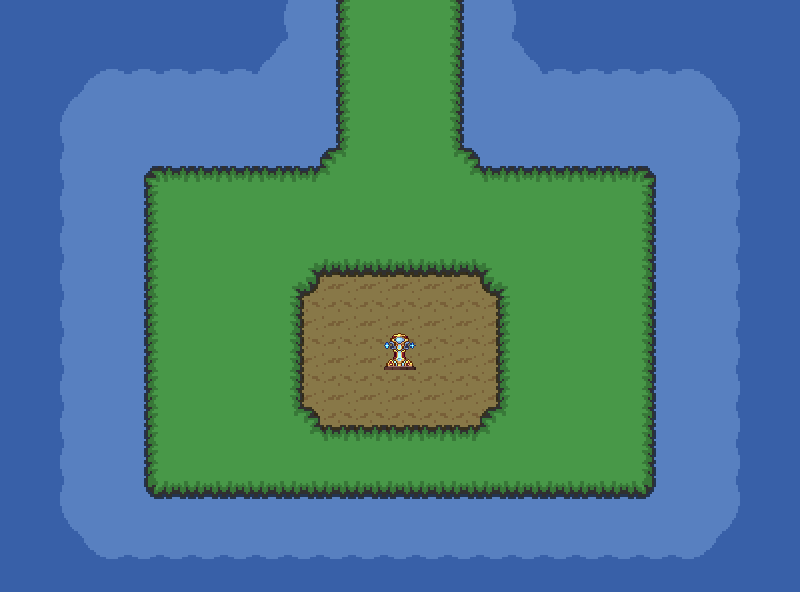
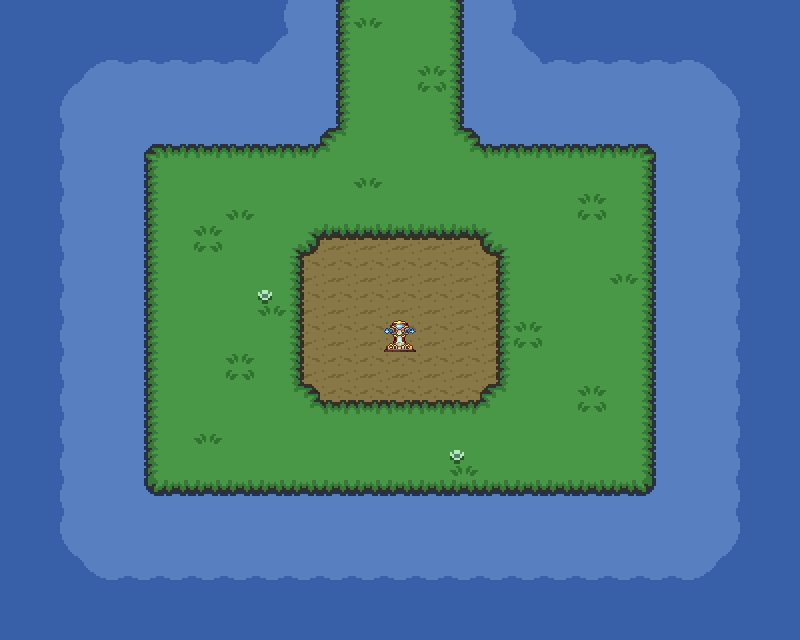
Funcion para obtener datos de la partida, funcion para generar el mapa, actualizo mapas 1-1 y 1-2 y actualizo OFW (6.3.3 -> 6.3.4)

diff --git a/app/module/api/api.php b/app/module/api/api.php
@@ -175,6 +175,71 @@ class api extends OModule {
 		$this->getTemplate()->add('status', $status);
 		$this->getTemplate()->add('id', $id_scenario);
 	}
+	
+	/**
+	 * Función para obtener los datos de una partida
+	 *
+	 * @url /get-play-data
+	 * @filter gameFilter
+	 * @param ORequest $req Request object with method, headers, parameters and filters used
+	 * @return void
+	 */
+	public function getPlayData(ORequest $req): void {
+		$status  = 'ok';
+		$id_game = $req->getParamInt('id');
+		$id_world = 'null';
+		$world_name = '';
+		$world_description = '';
+		$id_scenario = 'null';
+		$scenario_name = '';
+		$map_url = '';
+		$scenario_objects = [];
+		$characters = [];
+
+		if (is_null($id_game)) {
+			$status = 'error';
+		}
+
+		if ($status=='ok') {
+			$game = new Game();
+			if ($game->find(['id' => $id_game])) {
+				$scenario = $game->getScenario();
+				$world = $scenario->getWorld();
+
+				$id_world = $world->get('id');
+				$world_name = $world->get('name');
+				$world_description = $world->get('description');
+				$id_scenario = $scenario->get('id');
+				$scenario_name = $scenario->get('name');
+				$map_url = $scenario->getMapUrl();
+
+				$data = $scenario->getData();
+				foreach ($data as $scenario_data) {
+					$scenario_object = $scenario_data->getScenarioObject();
+					if (!is_null($scenario_object) && $scenario_object->get('crossable')===false) {
+						array_push($scenario_objects, $scenario_object);
+					}
+					$character = $scenario_data->getCharacter();
+					if (!is_null($character)) {
+						array_push($characters, $character);
+					}
+				}
+			}
+			else {
+				$status = 'error';
+			}
+		}
+
+		$this->getTemplate()->add('status',            $status);
+		$this->getTemplate()->add('id_world',          $id_world);
+		$this->getTemplate()->add('world_name',        $world_name);
+		$this->getTemplate()->add('world_description', $world_description);
+		$this->getTemplate()->add('id_scenario',       $id_scenario);
+		$this->getTemplate()->add('scenario_name',     $scenario_name);
+		$this->getTemplate()->add('map_url',           $map_url);
+		$this->getTemplate()->addComponent('scenario_objects', 'admin/scenario_objects', ['list' => $scenario_objects, 'extra' => 'nourlencode']);
+		$this->getTemplate()->addComponent('characters',       'admin/characters',       ['list' => $characters,       'extra' => 'nourlencode']);
+	}
 
 	/**
 	 * Función para guardar un escenario editado

diff --git a/app/task/map.php b/app/task/map.php
@@ -3,6 +3,10 @@ class mapTask extends OTask {
 	public function __toString() {
 		return "map: Nueva tarea map";
 	}
+	
+	private $tile_size = 32;
+	private $rows = 20;
+	private $cols = 25;
 
 	private function getResource(string $file, string $ext) {
 		switch ($ext) {
@@ -31,6 +35,10 @@ class mapTask extends OTask {
 		}
 
 		$id_scenario = intval($options[0]);
+		$silent = false;
+		if (count($options)==2 && $options[1]=='true') {
+			$silent = true;
+		}
 
 		$scenario = new Scenario();
 		if (!$scenario->find(['id' => $id_scenario])) {
@@ -42,11 +50,8 @@ class mapTask extends OTask {
 		if (file_exists($map_file)) {
 			unlink($map_file);
 		}
-		$outputImage = imagecreatetruecolor(800, 592);
+		$outputImage = imagecreatetruecolor(($this->cols * $this->tile_size), ($this->rows * $this->tile_size));
 		$data = $scenario->getData();
-
-		$new_width = 32;
-		$new_height = 37;
 
 		foreach ($data as $scenario_data) {
 			$this->getLog()->debug("X: ".$scenario_data->get('x')." - Y: ".$scenario_data->get('y'));
@@ -55,7 +60,7 @@ class mapTask extends OTask {
 			list($width, $height) = getimagesize($bg_file);
 			$bg = $this->getResource($bg_file, $bg_file_ext);
 
-			imagecopyresized($outputImage, $bg, ($scenario_data->get('y') * $new_width), ($scenario_data->get('x') * $new_height), 0, 0, $new_width, $new_height, $width, $height);
+			imagecopyresized($outputImage, $bg, ($scenario_data->get('y') * $this->tile_size), ($scenario_data->get('x') * $this->tile_size), 0, 0, $this->tile_size, $this->tile_size, $width, $height);
 
 			if (!is_null($scenario_data->getScenarioObject())) {
 				$so_file = $scenario_data->getScenarioObject()->getAsset()->getFile();
@@ -63,12 +68,14 @@ class mapTask extends OTask {
 				list($width, $height) = getimagesize($so_file);
 				$so = $this->getResource($so_file, $so_file_ext);
 
-				imagecopyresized($outputImage, $so, ($scenario_data->get('y') * $new_width), ($scenario_data->get('x') * $new_height), 0, 0, $new_width, $new_height, $width, $height);
+				imagecopyresized($outputImage, $so, ($scenario_data->get('y') * $this->tile_size), ($scenario_data->get('x') * $this->tile_size), 0, 0, $this->tile_size, $this->tile_size, $width, $height);
 			}
 		}
 
 		imagepng($outputImage, $map_file);
 		imagedestroy($outputImage);
-		echo "  \nNueva imagen \"".$map_file."\" creada.\n\n";
+		if (!$silent) {
+			echo "  \nNueva imagen \"".$map_file."\" creada.\n\n";
+		}
 	}
 }

diff --git a/app/model/Scenario.php b/app/model/Scenario.php
@@ -59,6 +59,42 @@ class Scenario extends OModel {
 
 		parent::load($table_name, $model);
 	}
+	
+	private $world = null;
+
+	/**
+	 * Obtiene el mundo del escenario
+	 *
+	 * @return World Mundo del escenario
+	 */
+	public function getWorld(): World {
+		if (is_null($this->world)) {
+			$this->loadWorld();
+		}
+		return $this->world;
+	}
+
+	/**
+	 * Guarda el mundo del escenario
+	 *
+	 * @param World $world Mundo del escenario
+	 *
+	 * @return void
+	 */
+	public function setWorld(World $world): void {
+		$this->world = $world;
+	}
+
+	/**
+	 * Carga el mundo del escenario
+	 *
+	 * @return void
+	 */
+	public function loadWorld(): void {
+		$world = new World();
+		$world->find(['id' => $this->get('id_world')]);
+		$this->setWorld($world);
+	}
 
 	private ?array $data = null;
 
@@ -146,6 +182,14 @@ class Scenario extends OModel {
 		}
 
 		$this->setConnections($connections);
+	}
+
+	/**
+	 * Obtiene la URL del mapa generado del escenario
+	 */
+	public function getMapUrl(): string {
+		global $core;
+		return $core->config->getUrl('base').'/maps/'.$this->get('id_world').'-'.$this->get('id').'.png';
 	}
 
 	/**

diff --git a/app/model/Game.php b/app/model/Game.php
@@ -92,4 +92,40 @@ class Game extends OModel {
 
 		parent::load($table_name, $model);
 	}
+	
+	private $scenario = null;
+
+	/**
+	 * Obtiene el escenario que se está jugando
+	 *
+	 * @return Scenario Escenario que se está jugando
+	 */
+	public function getScenario(): Scenario {
+		if (is_null($this->scenario)) {
+			$this->loadScenario();
+		}
+		return $this->scenario;
+	}
+
+	/**
+	 * Guarda el escenario que se está jugando
+	 *
+	 * @param Scenario $scenario Escenario que se está jugando
+	 *
+	 * @return void
+	 */
+	public function setScenario(Scenario $scenario): void {
+		$this->scenario = $scenario;
+	}
+
+	/**
+	 * Carga el escenario que se está jugando
+	 *
+	 * @return void
+	 */
+	public function loadScenario(): void {
+		$scenario = new Scenario();
+		$scenario->find(['id' => $this->get('id_scenario')]);
+		$this->setScenario($scenario);
+	}
 }

diff --git a/app/module/admin/admin.php b/app/module/admin/admin.php
@@ -396,6 +396,29 @@ class admin extends OModule {
 	}
 
 	/**
+	 * Función para generar el mapa de un escenario
+	 *
+	 * @url /generate-map
+	 * @filter adminFilter
+	 * @param ORequest $req Request object with method, headers, parameters and filters used
+	 * @return void
+	 */
+	public function generateMap(ORequest $req): void {
+		$status = 'ok';
+		$id = $req->getParamInt('id');
+
+		if (is_null($id)) {
+			$status = 'error';
+		}
+		
+		if ($status=='ok') {
+			OTools::runTask('map', [$id, 'true']);
+		}
+
+		$this->getTemplate()->add('status', $status);
+	}
+
+	/**
 	 * Función para obtener la lista de recursos
 	 *
 	 * @url /asset-list

diff --git a/ofw/core/OTools.php b/ofw/core/OTools.php
@@ -886,6 +886,7 @@ class OTools {
 		require_once $task_file;
 		$task_name .= 'Task';
 		$task = new $task_name();
+		$task->loadTask();
 		$task->run($params);
 
 		return true;
